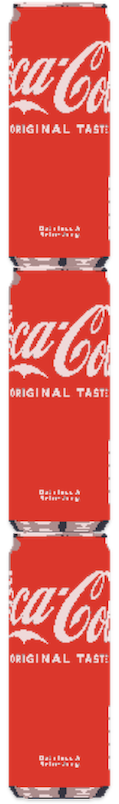
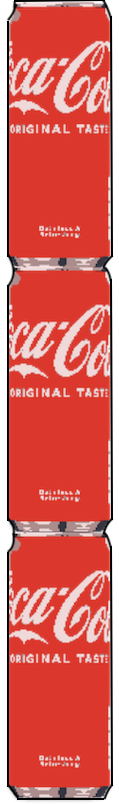
New background image andf borders around player and obstacles to make them pop

diff --git a/src/main/java/ImagePanel.java b/src/main/java/ImagePanel.java
@@ -11,8 +11,8 @@ public class ImagePanel extends JPanel {
     public static Image lowerPipe;
     public ImagePanel() {
         try {
-            playerImage = Toolkit.getDefaultToolkit().createImage("hamramsnabbare.gif");
-            upperPipe = ImageIO.read(new File("trippelburkVand.png"));
+            playerImage = Toolkit.getDefaultToolkit().createImage("hamram_border.gif");
+            upperPipe = ImageIO.read(new File("trippelburkvandkant.png"));
             lowerPipe = ImageIO.read(new File("trippelburk.png"));
         } catch (IOException e) {
             e.printStackTrace();

diff --git a/src/main/java/GamePanel.java b/src/main/java/GamePanel.java
@@ -62,7 +62,7 @@ public class GamePanel extends JPanel implements Runnable {
         highscore.setBounds(400, 10, 100, 50);
         this.add(playerScore);
         this.add(highscore);
-        backGroundImage = new ImageIcon("office.jpg").getImage();
+        backGroundImage = new ImageIcon("_88d2b0b7-b505-4a37-a995-69152b5e5b97.jpg").getImage();
     }
     /*
     In this method you regulate the appropriate variables
